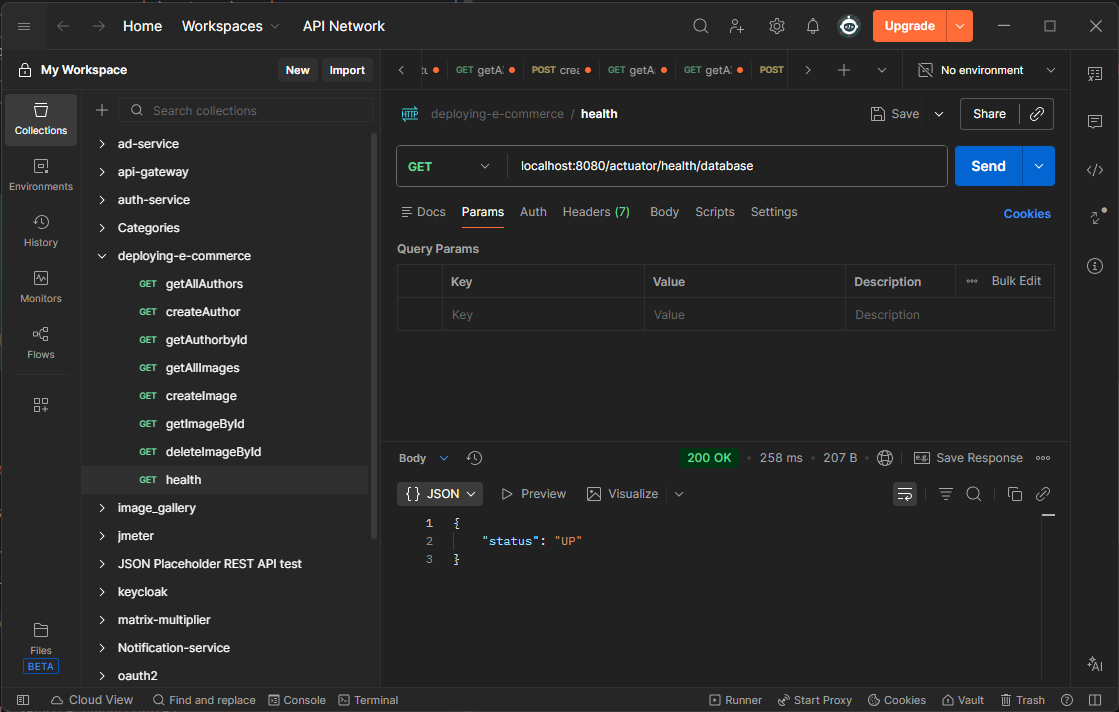
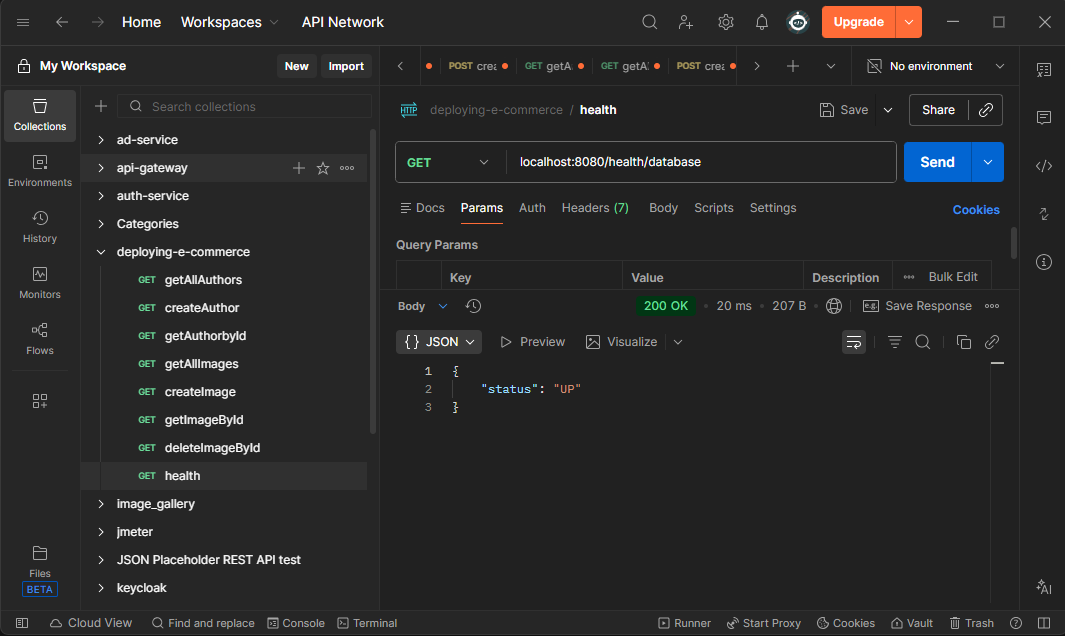
README.md updated with health check base path

diff --git a/README.md b/README.md
@@ -36,16 +36,16 @@ java -jar target/images-gallery-0.0.1-SNAPSHOT.jar
 The application uses **Spring Boot Actuator** to monitor the service status and database connectivity.
 
 ### Database Connected (200 OK)
-When PostgreSQL is running normally, the `/actuator/health/database` endpoint returns an `UP` status.
+When PostgreSQL is running normally, the `health/database` endpoint returns an `UP` status.
 
-**Command:** `curl -i localhost:8080/actuator/health/database`
+**Command:** `curl -i localhost:8080/health/database`
 
 ![Health Check 200](docs/health-check-200.png)
 
 ### Database Stopped (503 Service Unavailable)
 If the database connection is lost (DB stopped manually), Actuator changes the status to `DOWN`.
 
-**Command:** `curl -i localhost:8080/actuator/health/database`
+**Command:** `curl -i localhost:8080/health/database`
 
 ![Health Check 503](docs/health-check-503.png)
 
